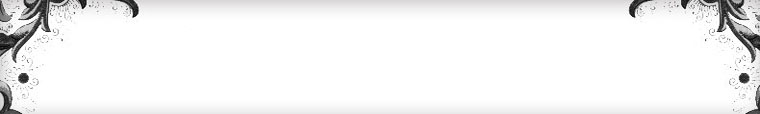
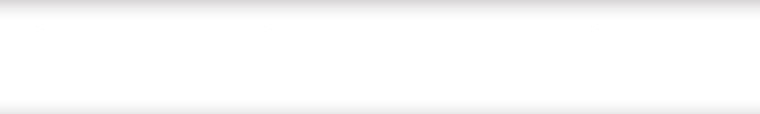
Some Styling added

Changed region(s): [[0.8171, 0.0, 1.0, 1.0], [0.0, 0.0, 0.1816, 1.0]]

diff --git a/public/src/main/webapp/styles/mtt.css b/public/src/main/webapp/styles/mtt.css
@@ -1,89 +1,112 @@
-/* *** css by miss monorom www.intensivstation.ch *** */
-/* css released under Creative Commons License -  http://creativecommons.org/licenses/by/2.0/deed.en  */
 
 body {
- background: #E7E7E7 url('body.jpg') top left;
-font-size: 11px;
-font-family: Verdana, Arial, SunSans-Regular, Sans-Serif;
-color:#564b47;
-padding:0px;
-margin:0px;
+    background: #E7E7E7 url('/images/body.jpg') top left;
+    font-size: 11px;
+    font-family: Verdana, Arial, SunSans-Regular, Sans-Serif;
+    color: #564b47;
+    padding: 0px;
+    margin: 0px;
 }
-a {color: #DB7093;}
-a:visited {color:#c43300;}
-a:hover {color: #c43300;}
-a:active { color:#000000;}
+
+a {
+    color: #DB7093;
+}
+
+a:visited {
+    color: #c43300;
+}
+
+a:hover {
+    color: #c43300;
+}
+
+a:active {
+    color: #000000;
+}
 
 h1 {
-font-size: 11px;
-text-transform:uppercase;
+    font-size: 20px;
 
-/*border-top:1px solid #564b47;
-border-bottom:1px solid #564b47;*/
-/*padding:5px 15px;*/
-margin:0px }
+    /*border-top:1px solid #564b47;
+  border-bottom:1px solid #564b47;*/
+    /*padding:5px 15px;*/
+    margin-top: 5px;
+    margin-left: 11px
+}
 
 h2 {
-color: #9A1212;
-font-size:20px;
-font-weight: normal;
-padding: 5px 10px;
-margin:0px;}
+    color: #9A1212;
+    font-size: 20px;
+    font-weight: normal;
+    padding: 5px 10px;
+    margin: 0px;
+}
 
-img.download {vertical-align:middle;}
+img.download {
+    vertical-align: middle;
+}
 
 /* ----------container to center the layout-------------- */
 #container {
-width: 760px;
+    width: 760px;
 
-margin-left: auto;
-margin-right: auto;
-height:100%;
-background: #E8E8E8 url('menubottom.jpg') no-repeat bottom left;
-border:1px solid #8D8D8D;
+    margin-left: auto;
+    margin-right: auto;
+    height: 100%;
+    background: #E8E8E8 no-repeat bottom left;
+    border: 1px solid #8D8D8D;
 }
 
 /* ----------banner for logo-------------- */
 #banner {
-height:114px;
-text-align: center;
-background:  url('header.jpg') no-repeat bottom center;
-background-color: #e1ddd9;
+    height: 114px;
+    text-align: center;
+    background: url('/images/header.jpg') no-repeat bottom center;
+    background-color: #e1ddd9;
 
-padding: 0px;
-margin: 0px;
+    padding: 0px;
+    margin: 0px;
 }
-#banner img {padding:10px 0px;} 
-#bannertitle{padding-top:50px;font-size:2em;font-weight:bold;}
+
+#banner img {
+    padding: 10px 0px;
+}
+
+#bannertitle {
+    padding-top: 50px;
+    font-size: 2em;
+    font-weight: bold;
+}
 
 /* -----------------content--------------------- */
 #content {
 
-background:#ffffff  url('content.jpg') no-repeat top right;
-padding: 0px;
-margin-left: 200px;
-margin-right: 0px;
-}
-div#content { 
-min-height:600px;
-/*height:expression(this.scrollHeight > 600 ? "auto":"600px"); */
+    background: #ffffff no-repeat top right;
+    padding: 0px;
+    margin-left: 20px;
+    margin-right: 0px;
+    margin-top: 10px;
 }
 
-p, pre{
-padding: 5px 10px;
-margin:0px;
+div#content {
+    min-height: 600px;
+    /*height:expression(this.scrollHeight > 600 ? "auto":"600px"); */
+}
+
+p, pre {
+    padding: 5px 10px;
+    margin: 0px;
 }
 
 /* --------------left navi------------- */
 #left {
-float: left;
-width: 200px;
-margin: 0px;
-padding: 0px;
-background:#E8E8E8;
- height:90%;
+    float: left;
+    width: 0px;
+    margin: 0px;
+    padding: 0px;
+    background: #E8E8E8;
+    height: 90%;
 }
-
 /* -----------footer--------------------------- */
 #footer {
 clear: both;
@@ -91,38 +114,61 @@ margin: 0px;
 padding:0px;
 
 height:35px;
-text-align: right; 
-background:  url('footer.gif') repeat-x ;
+text-align: right;
+background:  url('/images/footer.gif') repeat-x ;
 }
- #footer h1 a{
- color:#FFFFFF;
- }
   #footer h1{
   padding:5px 5px 0px 0px;
   }
- /**********vertical menu***************/
-.verticalmenu ul{
- list-style:none;
-/*list-style-image: url("bullet.gif")*/
 
-
- padding: 10px;
- margin: 0px;
+/**********vertical menu***************/
+ul {
+    list-style-type: none;
+    padding: 10px;
+    margin: 0px;
 }
 
- .verticalmenu li, a:link, .verticalmenu a:visited, .verticalmenu a:hover {
-   display: block;
-   font: bold 1.1em Verdana, Arial, Helvetica, sans-serif;
-   color: #9A1212;
-   text-decoration: none;
-   text-align: left;
-   
-   width: 140px;
-   height: 32px;
-   /*background: url('menuhover.gif') no-repeat;*/
- }
+div.description {
+    width: 90%;
+    margin-left: 12px;
+    border-style: dotted;
+    border-width: 1px;
+    padding: 2px;
+}
 
- .verticalmenu a:hover{
-   background: url('menuhover.gif') no-repeat;
-   color: #dc4d1b;
- }
+h2.title {
+    font-size: 15px;
+    color: #330099
+}
+
+.border-control {
+    border-style: dotted;
+    border-width: 1px;
+    padding: 5px;
+    margin: 10px;
+}
+
+#create-task {
+    margin-left: 12px;
+    width: 595px;
+    height: 200px;
+}
+
+input#title {
+    width: 330px;
+    margin-left: 36px;
+}
+
+input#create-task-button {
+    margin-left: 200px;
+}
+
+textarea {
+    font-size: 11px;
+    font-family: Verdana, Arial, SunSans-Regular, Sans-Serif;
+    color: #564b47;
+    width: 330px;
+}
+
+
+

diff --git a/public/src/main/java/com/mtt/controller/DashBoardController.java b/public/src/main/java/com/mtt/controller/DashBoardController.java
@@ -33,6 +33,10 @@ public final class DashBoardController {
     //Model map
     public static final String USER_MODEL_NAME = "user";
     public static final String TASKS_MODEL_NAME = "tasks";
+    public static final String DESC_SIZE_NAME = "descSize";
+    public static final int DESC_SIZE = 500;
+    public static final String TITLE_SIZE_NAME = "descSize";
+    public static final int TITLE_SIZE = 100;
 
     @Autowired
     public UserService userService;
@@ -52,10 +56,7 @@ public final class DashBoardController {
 
         Long userId = 1L;
 
-        map.put(USER_MODEL_NAME, userService.find(userId));
-        map.put(TASKS_MODEL_NAME, taskService.findByUser(userId));
-
-        return new ModelAndView(VIEW_NAME, map);
+        return populateCommonAttributes(map, userId);
     }
 
     @RequestMapping(method = RequestMethod.POST, params = "create-task")
@@ -66,8 +67,14 @@ public final class DashBoardController {
 
         taskService.create(convert(userId, createTaskBean));
 
+        return populateCommonAttributes(map, userId);
+    }
+
+    private ModelAndView populateCommonAttributes(Map<String, Object> map, Long userId) {
         map.put(USER_MODEL_NAME, userService.find(userId));
         map.put(TASKS_MODEL_NAME, taskService.findByUser(userId));
+        map.put(DESC_SIZE_NAME, DESC_SIZE);
+        map.put(TITLE_SIZE_NAME, TITLE_SIZE);
 
         return new ModelAndView(VIEW_NAME, map);
     }
